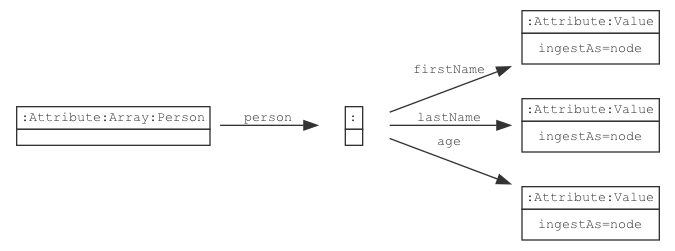
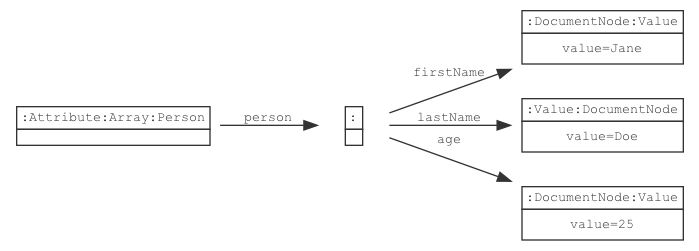
hugo: array files

Changed region(s): [[0.0, 0.3625, 0.9956, 0.6693], [0.5911, 0.0279, 0.9956, 0.3625], [0.6844, 0.6693, 0.9956, 0.9761]]

diff --git a/doc/ls/Array/_index.md b/doc/ls/Array/_index.md
@@ -60,15 +60,23 @@ property specified in the schema node.
 
 ### `ingestAs = node` (default)
 
-In the schema node, if the property ingest as property is specified as `ls:ingestAs=node` 
-then the data ingestion will behave as ingesting the array as a node. Ingesting an array as a node outputs a 
-graph similar to: ![](array_as_node.png)
+Given the schema: ![Array as node schema ](array_as_node_schema.png)
+
+If in the schema node, the ingest as property  is specified as `ls:ingestAs=node` then the data ingestion will 
+behave as ingesting the array as a node.
+
+Ingesting an array as a `node` outputs a 
+graph similar to: ![Array as node](array_as_node.png)
 where each parent node contains the edge label "has" to each of its child nodes. 
 
 ### `ingestAs = edge`
 
-In the schema node, if the property ingest as property is specified as `ls:ingestAs=edge` then the data ingestion 
-will behave as ingesting the array as an edge. Ingesting an array as an edge outputs a graph similar to: 
-![](array_as_edge.png) 
+Given the schema: ![Value as edge schema](array_as_edge_schema.png)
+
+If in the schema node, the ingest as property 
+is specified as `ls:ingestAs=edge` then the data ingestion will behave as ingesting the array as an edge. 
+
+Ingesting an array as an `edge` outputs a graph similar to: 
+![Array as edge](array_as_edge.png) 
 where the edge label connecting the parent to the child node, is value of the `attributeName` 
 field in the key-value pair of the child node.

diff --git a/doc/ls/Value/_index.md b/doc/ls/Value/_index.md
@@ -56,7 +56,7 @@ property specified in the schema node.
 Given the schema: ![Value as node schema ](value_as_node_schema.png)
 
 If in the schema node, the ingest as property  is specified as `ls:ingestAs=node` then the data ingestion will 
-behave as ingesting the array as a node. 
+behave as ingesting the value as a node. 
 
 Ingesting an array as a `node` outputs a graph similar to:  
 ![Value as node](value_as_node.png)
